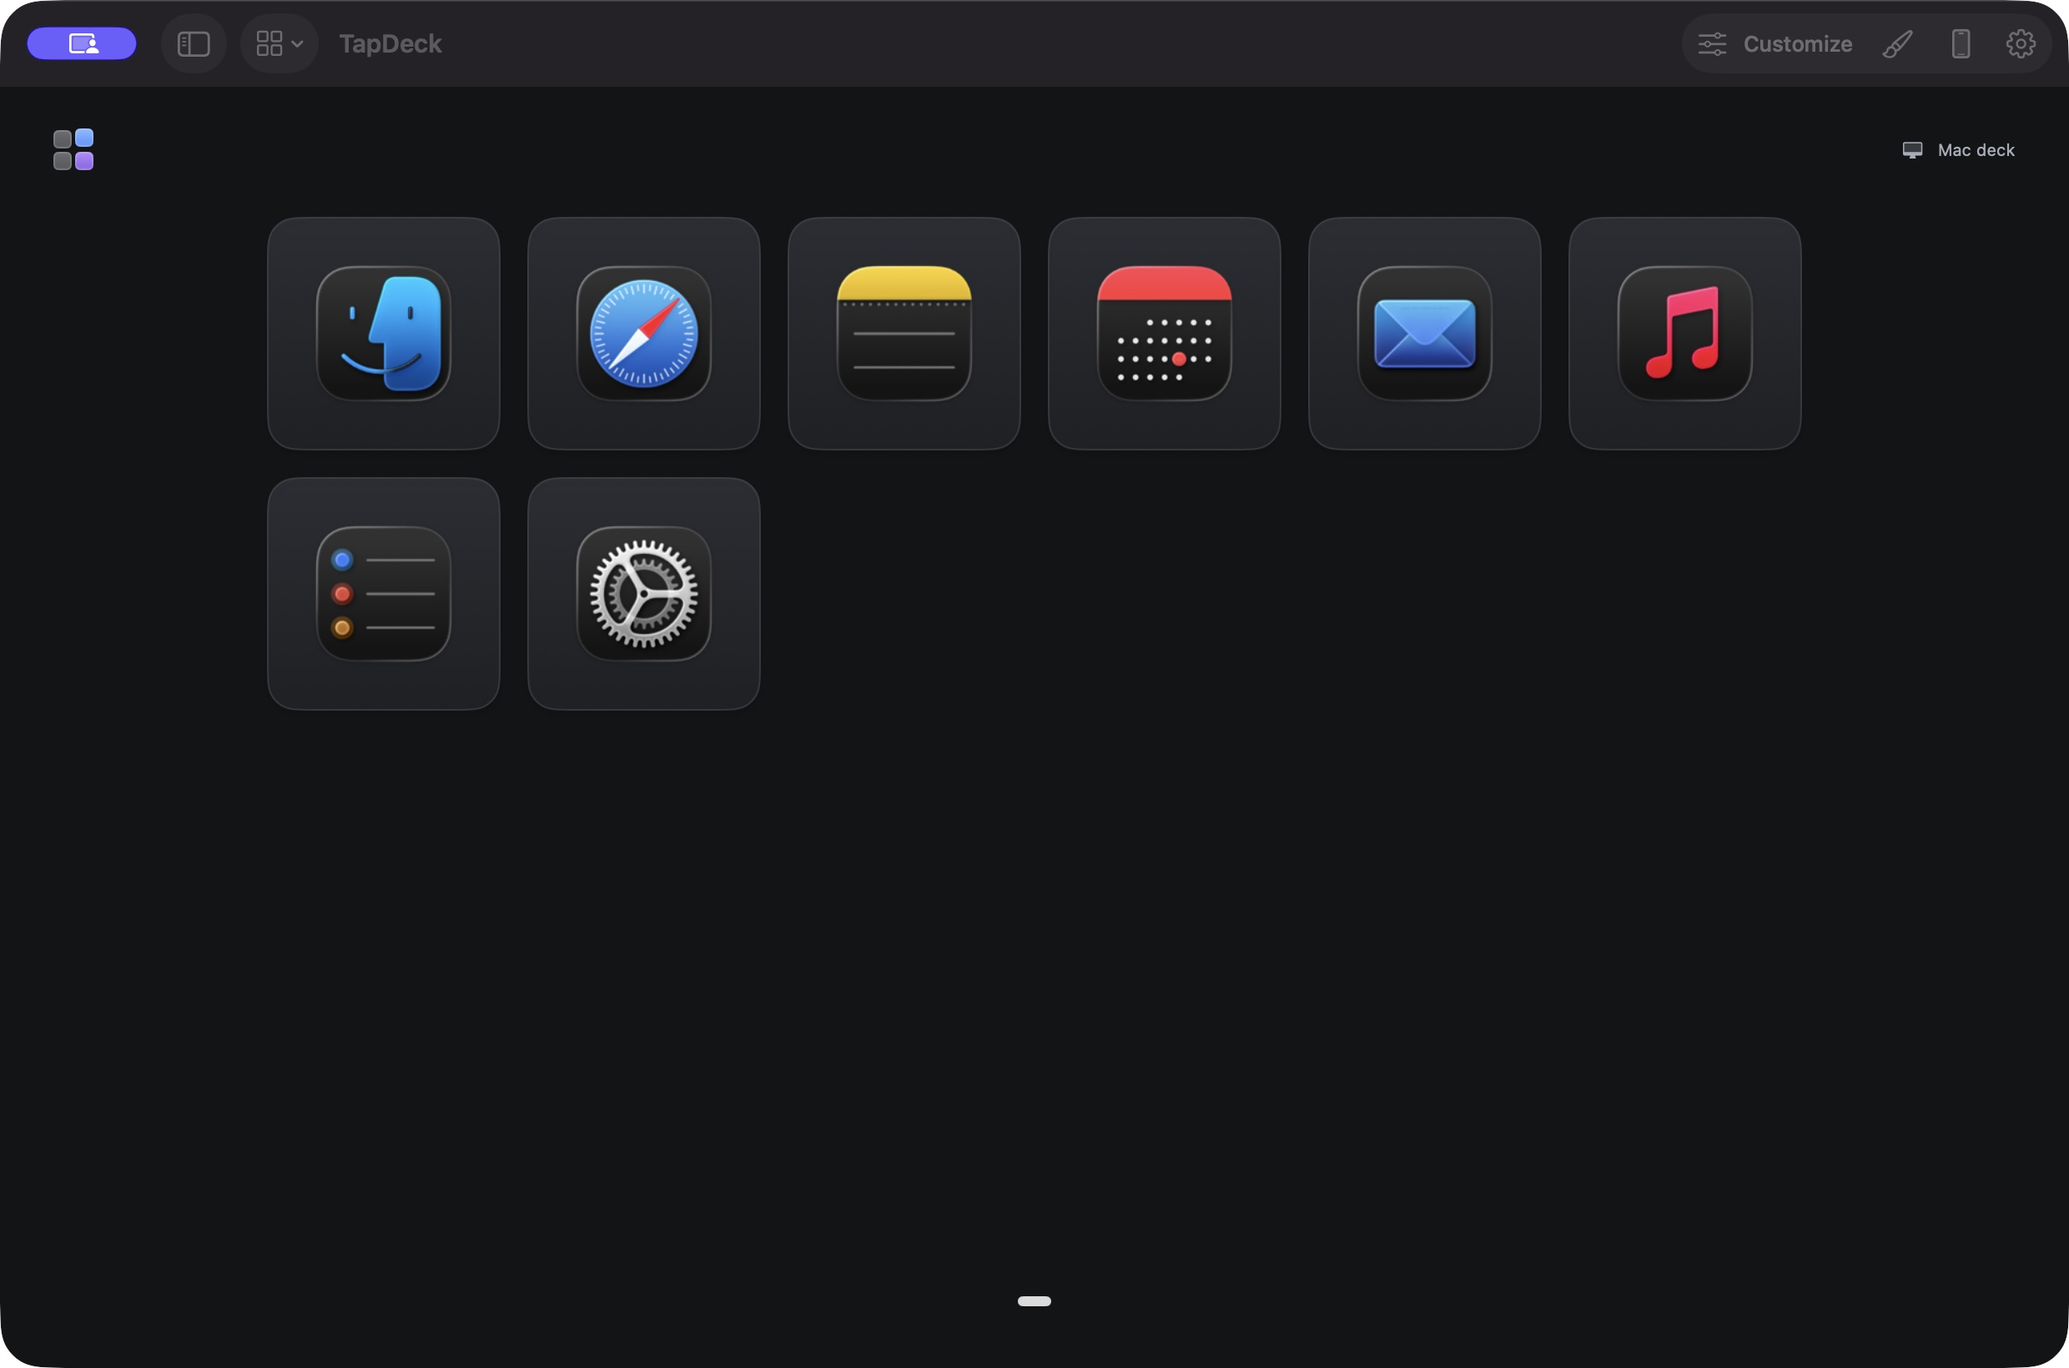
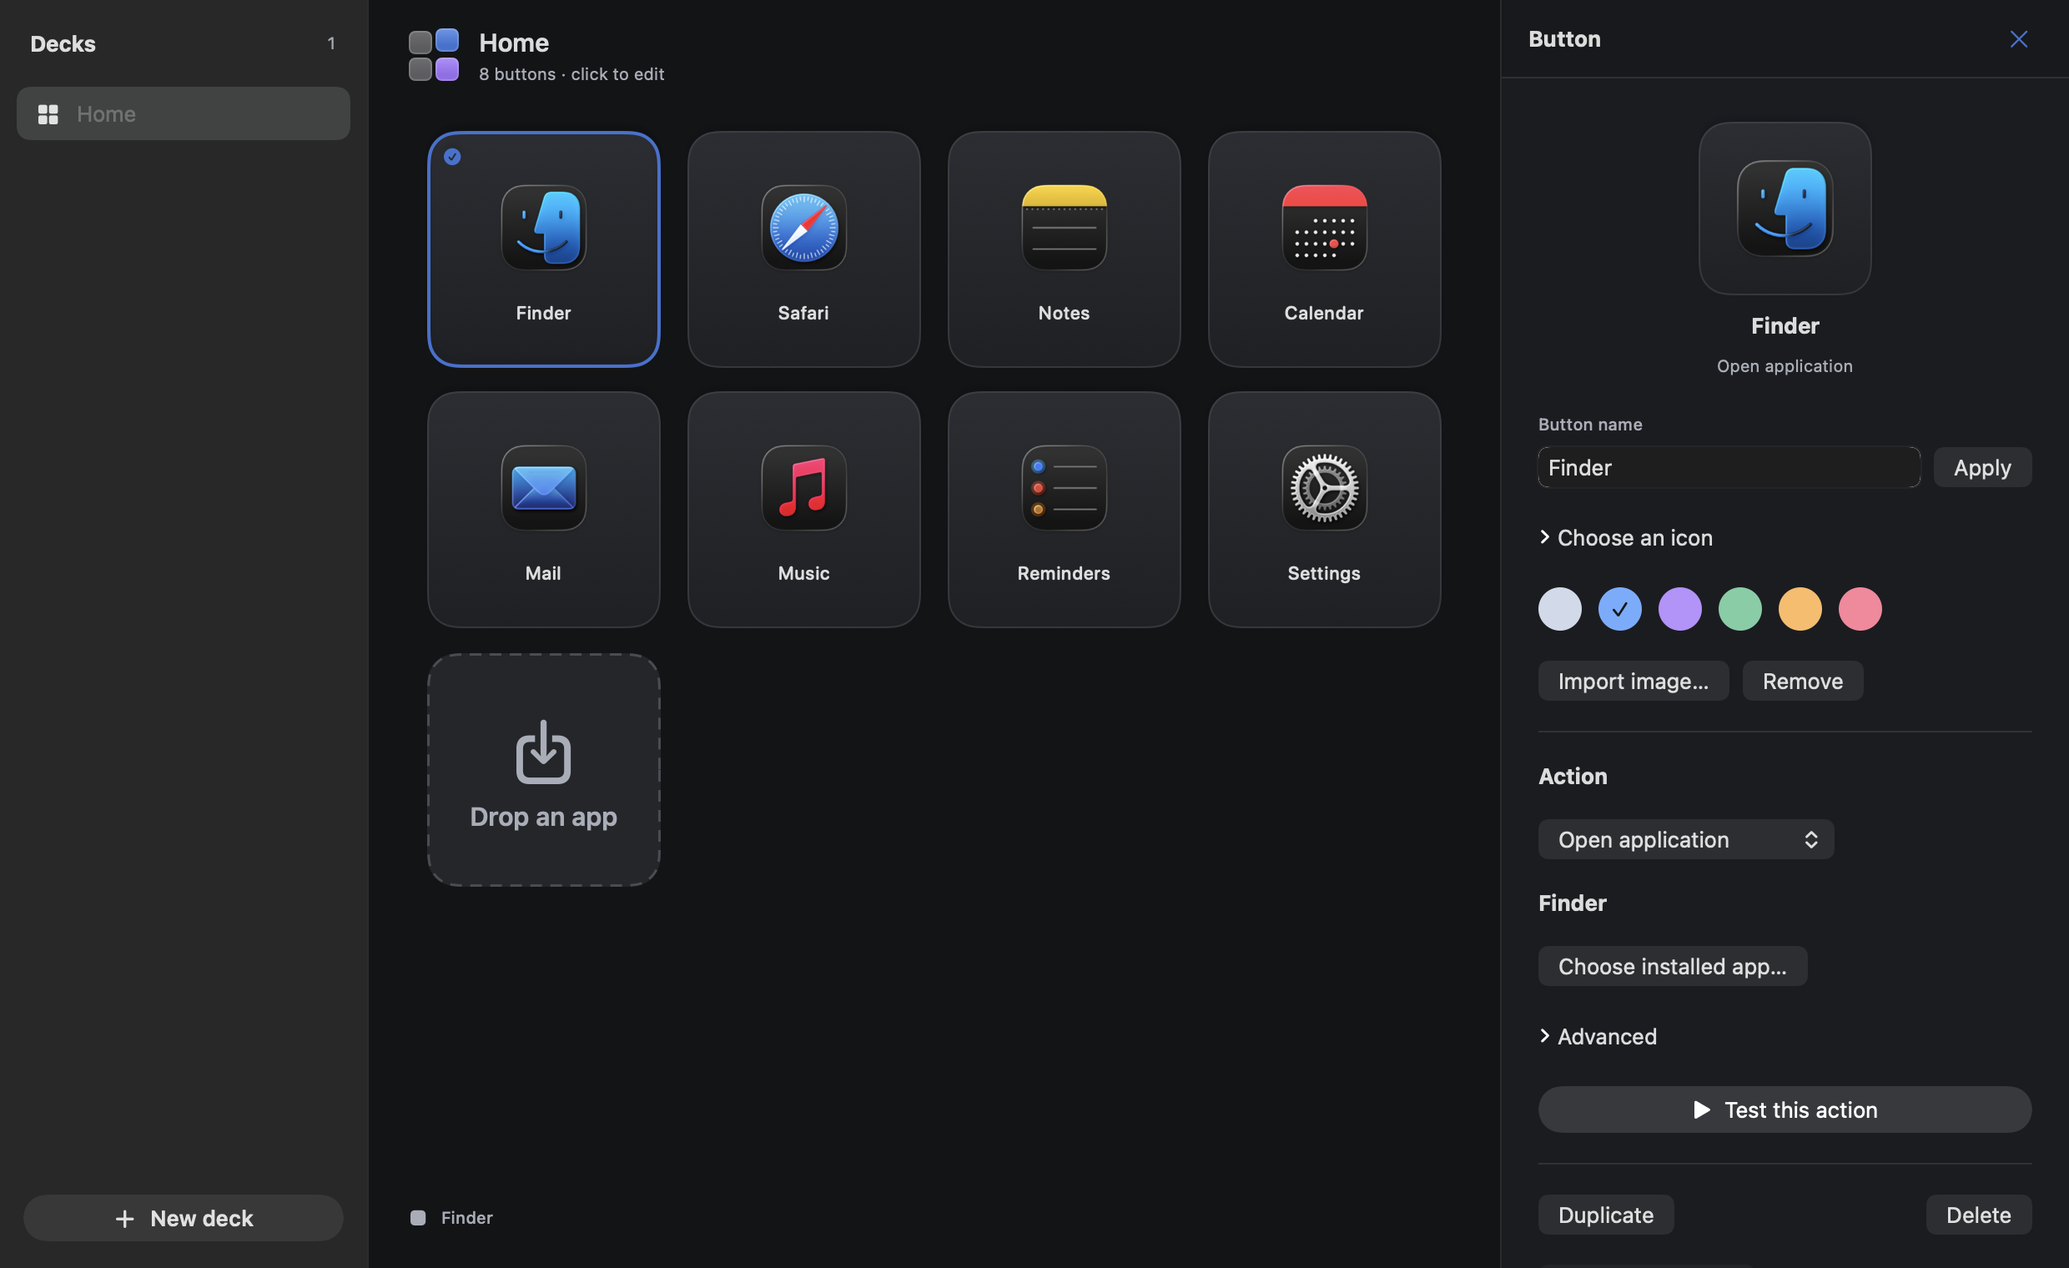
Publish 0.3.4 preview guidance and upgrade reminder (#5)

diff --git a/README.md b/README.md
@@ -11,15 +11,18 @@ Create on your Mac. Scan a QR. Approve once. Tap from your phone.
 
 **macOS 14+ · Apple silicon & Intel · No phone app required**
 
-**[Download Mac preview ↓](https://github.com/wakeupbrk/TapDeck/releases/download/v0.3.3/TapDeck-0.3.3-Mac.dmg)**<br>
-[Wiki help center](https://github.com/wakeupbrk/TapDeck/wiki) · [Release notes](https://github.com/wakeupbrk/TapDeck/releases/tag/v0.3.3) · [Get started](docs/GETTING-STARTED.md) · [Get help](SUPPORT.md) · [Roadmap](docs/ROADMAP.md)
+**[Download Mac preview ↓](https://github.com/wakeupbrk/TapDeck/releases/download/v0.3.4/TapDeck-0.3.4-Mac.dmg)**<br>
+[Wiki help center](https://github.com/wakeupbrk/TapDeck/wiki) · [Release notes](https://github.com/wakeupbrk/TapDeck/releases/tag/v0.3.4) · [Get started](docs/GETTING-STARTED.md) · [Get help](SUPPORT.md) · [Roadmap](docs/ROADMAP.md)
 
 <img src="images/browser-landscape.png" alt="TapDeck phone controller in landscape, showing eight large app buttons and a compact menu" width="852" />
 
 </div>
 
 > [!IMPORTANT]
-> **0.3.3 is a seven-day preview.** The Mac app is ad hoc signed and unnotarized, so Gatekeeper may block it. Signing, notarization and remaining device acceptance checks are still ahead. Paid licenses are not available.
+> **0.3.4 is a seven-day preview.** The Mac app is ad hoc signed and unnotarized, so Gatekeeper may block it. Signing, notarization and remaining device acceptance checks are still ahead. Paid licenses are not available.
+
+> [!TIP]
+> **Using an older preview? Update to 0.3.4.** [Download the new Mac preview](https://github.com/wakeupbrk/TapDeck/releases/download/v0.3.4/TapDeck-0.3.4-Mac.dmg), quit TapDeck, and replace the app in Applications. Refresh Safari or your Home Screen controller afterward. Saved pairing and your original trial expiry are retained; upgrading does not start a new trial.
 
 ## Start in three steps
 
@@ -29,7 +32,11 @@ Create on your Mac. Scan a QR. Approve once. Tap from your phone.
 
 Both devices need internet access. Keep your Mac awake with TapDeck running. The phone uses its browser; there is no account to register or phone app to install. The [full setup guide](docs/GETTING-STARTED.md) covers installation, pairing and upgrades.
 
-> Upgrading? Install **0.3.3** and replace the app in Applications. A 0.3.2 Mac app still connects. Builds older than 0.3.2 cannot reconnect. Saved pairing and the original trial expiry are retained.
+> Upgrading? Install **0.3.4** and replace the app in Applications. A 0.3.2 Mac app still connects. Builds older than 0.3.2 cannot reconnect. Saved pairing and the original trial expiry are retained.
+
+## What’s new in 0.3.4
+
+Buttons follow your pointer while their neighbours move into place. Reviewed imports and local deck history protect your current deck before replacement or restore. The editor has clearer selection and controls, and the phone respects configured destination pages, labels and icons.
 
 ## Build your everyday controls
 
@@ -40,7 +47,7 @@ Both devices need internet access. Keep your Mac awake with TapDeck running. The
 | Arrange simple macros and export your deck with artwork | Switch decks and pages from a compact menu |
 | Approve new browsers and revoke their access | Use Safari or a browser with WebCrypto and WebSocket support |
 
-Keyboard controls need Accessibility permission on the Mac. Physical iPhone Safari/Home Screen acceptance remains on the release checklist.
+Keyboard controls need Accessibility permission on the Mac. Basic iPhone pairing, navigation, rotation and refresh/reconnect passed the user device session. Additional device/accessibility and clean-Mac checks remain on the release checklist.
 
 <details>
 <summary><strong>See the Mac app</strong></summary>
@@ -77,4 +84,4 @@ This is TapDeck’s **public downloads and support hub**. It contains documentat
 
 GitHub automatically labels its repository archives “Source code”; here those archives contain public documentation and images. **Install the `.dmg` to get the app.** The checksum file verifies that your download matches the published build. [Release assets explained](docs/FAQ.md#which-release-file-should-i-download).
 
-The preview uses the [proprietary trial notice](LICENSE-TRIAL.txt). Earlier license grants and third-party licenses are unaffected. See [how to contribute feedback and documentation](CONTRIBUTING.md).
+The preview uses the [proprietary trial notice](LICENSE-TRIAL.txt). Earlier license grants and third-party licenses are unaffected. See [third-party notices](THIRD-PARTY-NOTICES.txt) and [how to contribute feedback and documentation](CONTRIBUTING.md).

diff --git a/docs/GETTING-STARTED.md b/docs/GETTING-STARTED.md
@@ -5,14 +5,14 @@
 ## Before you begin
 
 - A Mac running macOS 14 or newer. The app supports Apple silicon and Intel.
-- A phone browser with WebCrypto and WebSocket support. Safari and Chromium are the intended targets; physical iPhone acceptance is still pending.
+- A phone browser with WebCrypto and WebSocket support. Safari and Chromium are the intended targets; basic iPhone pairing, navigation, refresh/reconnect and rotation were reported successful; additional device and accessibility checks remain.
 - Internet access on both devices. They do not need the same Wi-Fi network.
 
-The current release is **0.3.3**, an ad hoc signed, unnotarized preview. Review the [release notes](https://github.com/wakeupbrk/TapDeck/releases/tag/v0.3.3), [trial notice](../LICENSE-TRIAL.txt) and [privacy information](../PRIVACY.md) before activation.
+The current release is **0.3.4**, an ad hoc signed, unnotarized preview. Review the [release notes](https://github.com/wakeupbrk/TapDeck/releases/tag/v0.3.4), [trial notice](../LICENSE-TRIAL.txt) and [privacy information](../PRIVACY.md) before activation.
 
 ## 1. Install the Mac app
 
-1. Download [TapDeck-0.3.3-Mac.dmg](https://github.com/wakeupbrk/TapDeck/releases/download/v0.3.3/TapDeck-0.3.3-Mac.dmg).
+1. Download [TapDeck-0.3.4-Mac.dmg](https://github.com/wakeupbrk/TapDeck/releases/download/v0.3.4/TapDeck-0.3.4-Mac.dmg).
 2. Open the disk image and drag TapDeck into Applications. Keep one installed copy.
 3. Open TapDeck. If macOS blocks it, consult [installation troubleshooting](TROUBLESHOOTING.md#macos-blocks-the-app).
 4. Choose **Start or resume 7-day trial**. Activation asks for consent before sending the app-specific hardware hash. Declining leaves controls locked.
@@ -45,11 +45,11 @@ On Safari, use **Share → Add to Home Screen**. Open that saved controller whil
 
 Quit TapDeck, install the new DMG and replace the existing app in Applications. Open it again, then refresh your phone browser or Home Screen controller.
 
-**0.3.3 is a Mac editor update.** A 0.3.2 app keeps working with the current controller. Builds older than 0.3.2 use the retired handshake and cannot reconnect. The upgrade preserves saved pairing credentials and the original trial timestamps; downloading again does not create a new trial.
+**0.3.4 adds smoother organization and deck recovery.** A 0.3.2 app keeps working with the current controller. Builds older than 0.3.2 use the retired handshake and cannot reconnect. The upgrade preserves saved pairing credentials and the original trial timestamps; downloading again does not create a new trial.
 
 ## Back up or disconnect
 
-Export your deck and artwork from the Mac before making large changes. Your deck remains exportable after trial expiry.
+Export your deck and artwork from the Mac before making large changes. Import shows a review first; **Back Up & Replace** saves your current deck and artwork before replacement. Use **Deck → Deck History…** to review and restore a saved copy. Restoring also backs up the current deck. History is local to your Mac and excludes pairing credentials and trial records. Your deck remains exportable after trial expiry.
 
 To remove a phone’s access, revoke its browser in Mac settings. **Forget this Mac** on the phone clears browser pairing and cached artwork; revoke on the Mac as well to invalidate access.
 

diff --git a/docs/TROUBLESHOOTING.md b/docs/TROUBLESHOOTING.md
@@ -6,7 +6,7 @@
 
 | Symptom | First check |
 | --- | --- |
-| Phone keeps reconnecting | Install Mac 0.3.2 or 0.3.3, refresh the phone page, keep the Mac awake and check internet access |
+| Phone keeps reconnecting | Install Mac 0.3.2 or 0.3.4, refresh the phone page, keep the Mac awake and check internet access |
 | QR will not pair | Generate a fresh invitation and approve the browser on the Mac |
 | Keyboard control does nothing | Check the target app and Mac Accessibility permission |
 | Controls are locked | Check trial status and internet access; original expiry survives reinstalling |
@@ -14,7 +14,7 @@
 
 ## macOS blocks the app
 
-The preview is ad hoc signed and **not notarized**. macOS may block it. Confirm that you downloaded it from the [official release](https://github.com/wakeupbrk/TapDeck/releases/tag/v0.3.3) and verify the checksum below. A checksum confirms the file matches the published build; it does not make an app notarized or prove that it is safe.
+The preview is ad hoc signed and **not notarized**. macOS may block it. Confirm that you downloaded it from the [official release](https://github.com/wakeupbrk/TapDeck/releases/tag/v0.3.4) and verify the checksum below. A checksum confirms the file matches the published build; it does not make an app notarized or prove that it is safe.
 
 Keep macOS security protections enabled. If you cannot install the preview comfortably, wait for a Developer ID signed, notarized release. Include the exact macOS message in a bug report, with personal information removed.
 
@@ -26,13 +26,13 @@ Download `SHA256SUMS.txt` and the DMG from the same release. Put them in the sam
 shasum -a 256 -c SHA256SUMS.txt
 ```
 
-The expected result is `TapDeck-0.3.3-Mac.dmg: OK`. If the files were renamed by your browser, restore the names used in the checksum file first. A mismatch means the file does not match; download a fresh copy from the official release before installing.
+The expected result is `TapDeck-0.3.4-Mac.dmg: OK`. If the files were renamed by your browser, restore the names used in the checksum file first. A mismatch means the file does not match; download a fresh copy from the official release before installing.
 
 ## The phone stays disconnected
 
 1. Check that your Mac is awake, TapDeck is running and remote control is not paused.
 2. Check internet access on both devices and your Mac trial status.
-3. Make sure the Mac app is **0.3.2 or 0.3.3**. The current download is 0.3.3. Refresh the browser or Home Screen controller after a relay upgrade. The 0.3.3 Mac download does not require a phone refresh.
+3. Make sure the Mac app is **0.3.2 or 0.3.4**. The current download is 0.3.4. Refresh the browser or Home Screen controller after a relay upgrade. Refresh the phone controller to load the matching navigation, label and icon improvements.
 4. Reopen the same saved controller. Switching browsers, private browsing and cleared browser storage may require a new pairing.
 5. If the pairing was revoked or the invitation expired, generate a fresh QR and approve it on the Mac.
 

diff --git a/docs/CHANGELOG.md b/docs/CHANGELOG.md
@@ -2,6 +2,20 @@
 
 [← TapDeck](../README.md) · [Download releases](https://github.com/wakeupbrk/TapDeck/releases) · [Roadmap](ROADMAP.md)
 
+## 0.3.4 — smoother editor and deck recovery
+
+[Download and release details](https://github.com/wakeupbrk/TapDeck/releases/tag/v0.3.4)
+
+- Drag the actual button while neighbours adjust, with no leftover drag copy. Release saves one reorder and one Undo step.
+- Review imports before replacement; back up the current deck and referenced artwork before import or restore. Deck History offers local recovery after restart.
+- Clearer editor hierarchy, selection marker, action inspector and accessibility controls; separate label settings for the Mac and phone.
+- Phone navigation opens the configured destination page, including overflow layouts. Phone labels and icon-picker choices now render correctly.
+- The live controller publishes update notices for available Mac downloads.
+- Local verification passed 43 core tests, 23 Web/Worker tests, native builds and isolated trial, action, recovery, reorder and encrypted relay checks. The user confirmed pairing, navigation, smooth dragging/rotation, refresh/reconnect and immediate phone updates after Mac reordering.
+- Hosted private-source CI was unavailable at packaging time. This requested preview was built from the locally verified review branch; the source PR remains open.
+
+**Upgrade:** quit TapDeck, install 0.3.4 and replace the app in Applications. Refresh Safari/Home Screen tabs. Existing pairing and original trial expiry are retained; 0.3.2 and newer Mac builds remain compatible.
+
 ## 0.3.3 — Mac editor
 
 [Download and release details](https://github.com/wakeupbrk/TapDeck/releases/tag/v0.3.3)

diff --git a/docs/FAQ.md b/docs/FAQ.md
@@ -6,9 +6,10 @@
 
 | File | Purpose |
 | --- | --- |
-| **TapDeck-0.3.3-Mac.dmg** | The Mac app installer. Download this to use TapDeck. |
+| **TapDeck-0.3.4-Mac.dmg** | The Mac app installer. Download this to use TapDeck. |
 | **SHA256SUMS.txt** | The installer’s SHA-256 fingerprint. Use it to check your downloaded file matches the published build. |
 | **LICENSE-TRIAL.txt** | The preview’s usage terms, in plain text. |
+| **THIRD-PARTY-NOTICES.txt** | Applicable browser-library notices. |
 | **Source code (zip / tar.gz)** | GitHub’s automatic archives of this public repository. They contain documentation and images, not the private app development source. Both formats contain the same repository files. |
 
 A `.txt` file is a text document; it does not install the app. [How to verify the checksum](TROUBLESHOOTING.md#verify-the-download).
@@ -35,7 +36,7 @@ Not yet. Pricing, payments and paid activation remain future work. The current d
 
 ## Why do older Mac versions fail to reconnect?
 
-The 0.3.2 security update authenticates a connection before allocating a WebSocket. Builds older than 0.3.2 use the retired handshake. Install the current Mac preview and refresh the phone controller; saved pairing and original trial expiry are retained. The 0.3.3 editor update does not retire a 0.3.2 Mac app.
+The 0.3.2 security update authenticates a connection before allocating a WebSocket. Builds older than 0.3.2 use the retired handshake. Install the current Mac preview and refresh the phone controller; saved pairing and original trial expiry are retained. The 0.3.4 editor update does not retire a 0.3.2 Mac app.
 
 ## Can I drag apps straight into the Mac app?
 

diff --git a/docs/ROADMAP.md b/docs/ROADMAP.md
@@ -6,6 +6,13 @@ Our direction: **create on the Mac, control from the phone**. The Mac should be 
 
 These are planned areas, not promised dates. Priorities can change with feedback and testing. Shipped work is listed in the [changelog](CHANGELOG.md).
 
+## Shipped in 0.3.4
+
+- Smooth live drag reordering with one Undo step.
+- Import review, backup before replacement/restore and local deck history.
+- Clearer editor selection, controls and accessibility alternatives.
+- Published update catalog and phone destination-page, label and icon fixes.
+
 ## Shipped in 0.3.3
 
 - Click a button to select it. The inspector stays open, and Test runs the action.
@@ -20,9 +27,8 @@ These are planned areas, not promised dates. Priorities can change with feedback
 
 ## Reliability and release readiness
 
-- Publish the update catalog from the hosted controller so installed 0.3.3 apps can see a newer release. The Mac check already exists.
 - Clear connection troubleshooting and action-readiness feedback.
-- Local deck history, safer restore and an import review before replacing data.
+- Deck history location/retention preferences, backup management and import merging.
 - Security reviews of new input paths and continued dependency maintenance.
 - Keyboard/VoiceOver and physical Safari/Home Screen acceptance checks.
 - Developer ID signing, notarization and a repeatable coordinated release process.

diff --git a/SECURITY.md b/SECURITY.md
@@ -10,7 +10,7 @@ Do not post active QR invitations, pairing secrets, personal decks, hardware ide
 
 ## Current preview
 
-Use the **0.3.3** Mac preview with the hosted controller. A 0.3.2 Mac app still connects. Builds earlier than 0.3.2 cannot reconnect after the security handshake update. The [changelog](docs/CHANGELOG.md) describes the fixes and upgrade steps.
+Use the **0.3.4** Mac preview with the hosted controller. A 0.3.2 Mac app still connects. Builds earlier than 0.3.2 cannot reconnect after the security handshake update. The [changelog](docs/CHANGELOG.md) describes the fixes and upgrade steps.
 
 New browsers require local Mac approval; approved messages use authenticated encryption, replay rejection and revocation. The Mac owns executable definitions and the phone requests configured action IDs. These controls have limitations: endpoint devices and the hosting/deployment account remain trusted.
 

diff --git a/SUPPORT.md b/SUPPORT.md
@@ -12,7 +12,7 @@
 
 ## Before reporting a bug
 
-Use the current **0.3.3** Mac preview. A 0.3.2 app still connects; refresh the phone controller after a relay change. Check the troubleshooting guide, then [search existing issues](https://github.com/wakeupbrk/TapDeck/issues) for the same problem.
+Use the current **0.3.4** Mac preview. A 0.3.2 app still connects; refresh the phone controller after a relay change. Check the troubleshooting guide, then [search existing issues](https://github.com/wakeupbrk/TapDeck/issues) for the same problem.
 
 Include the app/macOS version, phone/browser version, what you expected and a short set of reproduction steps. Share only screenshots or diagnostics you have checked for personal information.
 
